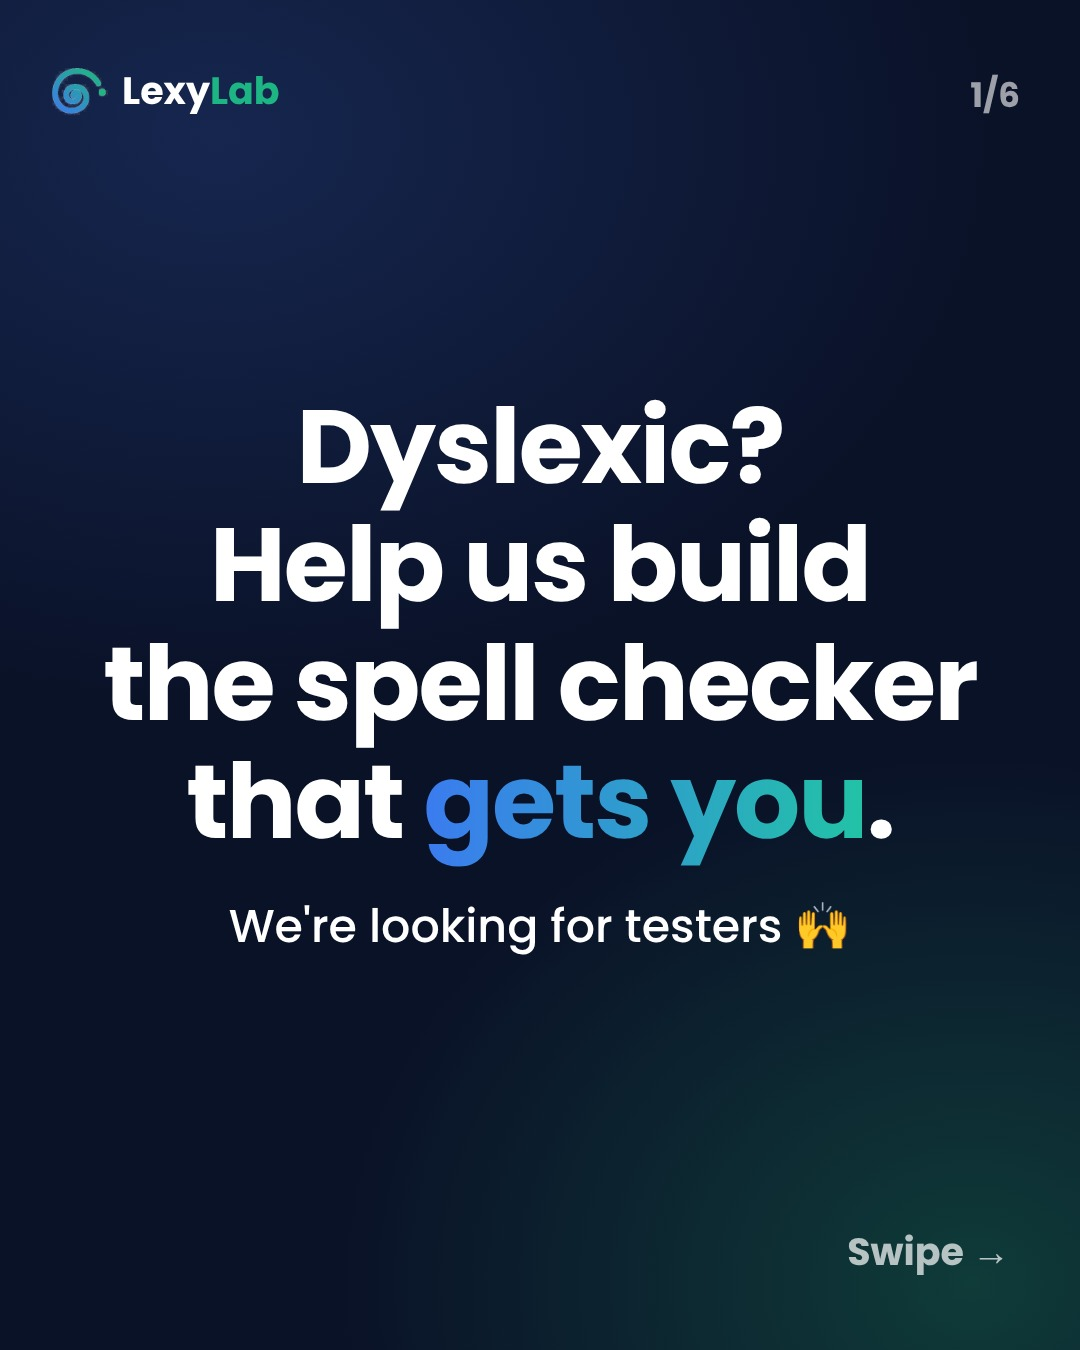
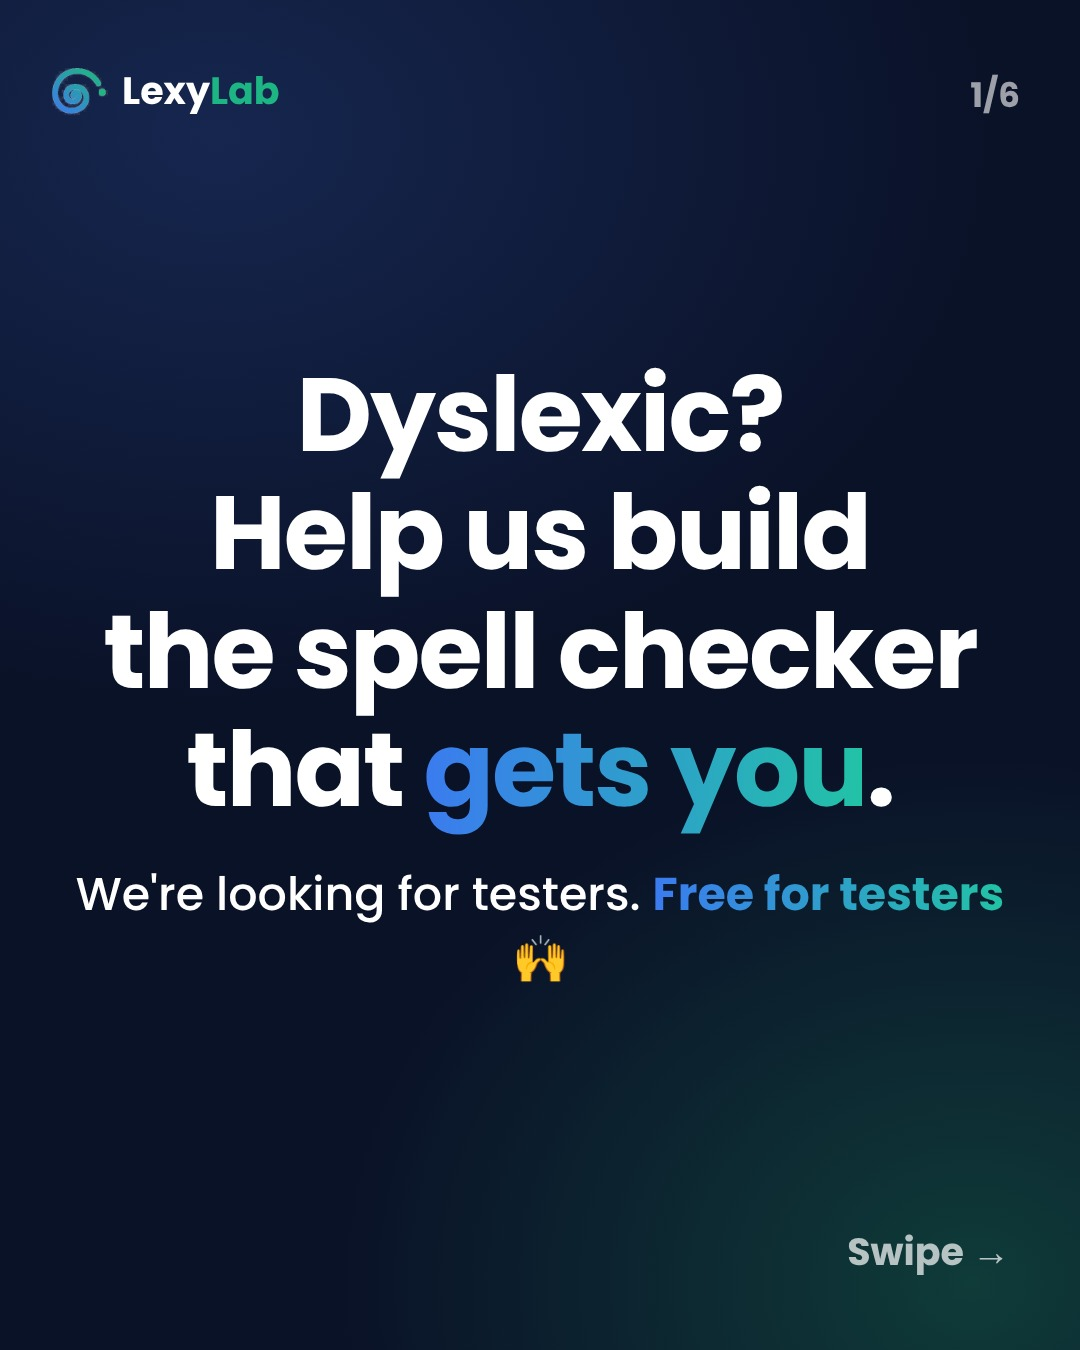
Anglais : « free for testers » bien visible (carrousel, vidéo, légendes, voix)
Claude-Session: https://claude.ai/code/session_01Srw4dJGkdSRn6e9UWtfu72

Changed region(s): [[0.0611, 0.2489, 0.9472, 0.7467]]

diff --git a/agent-video/formats/presentation.html b/agent-video/formats/presentation.html
@@ -33,6 +33,9 @@
   #count{position:absolute;right:60px;top:70px;font-weight:700;font-size:34px;opacity:.6;display:none}
   #swipe{position:absolute;right:70px;bottom:70px;font-weight:700;font-size:38px;opacity:.7;display:none}
   .sub.sub2{display:block}
+  #sc .sub span{background:none;padding:0;border-radius:0;font-size:inherit;line-height:inherit;font-weight:700}
+  #sc .sub span.gr{background:linear-gradient(90deg,#3B7BF0,#22C3A6);-webkit-background-clip:text;background-clip:text;color:transparent}
+  #sc .sub span.rd{color:#FF5A5F}
   /* Carrousel (1080x1350) : tout centré, verticalement et horizontalement */
   body.car #stage{height:1350px}
   body.car #sc{align-items:center;text-align:center;left:70px;right:70px}
